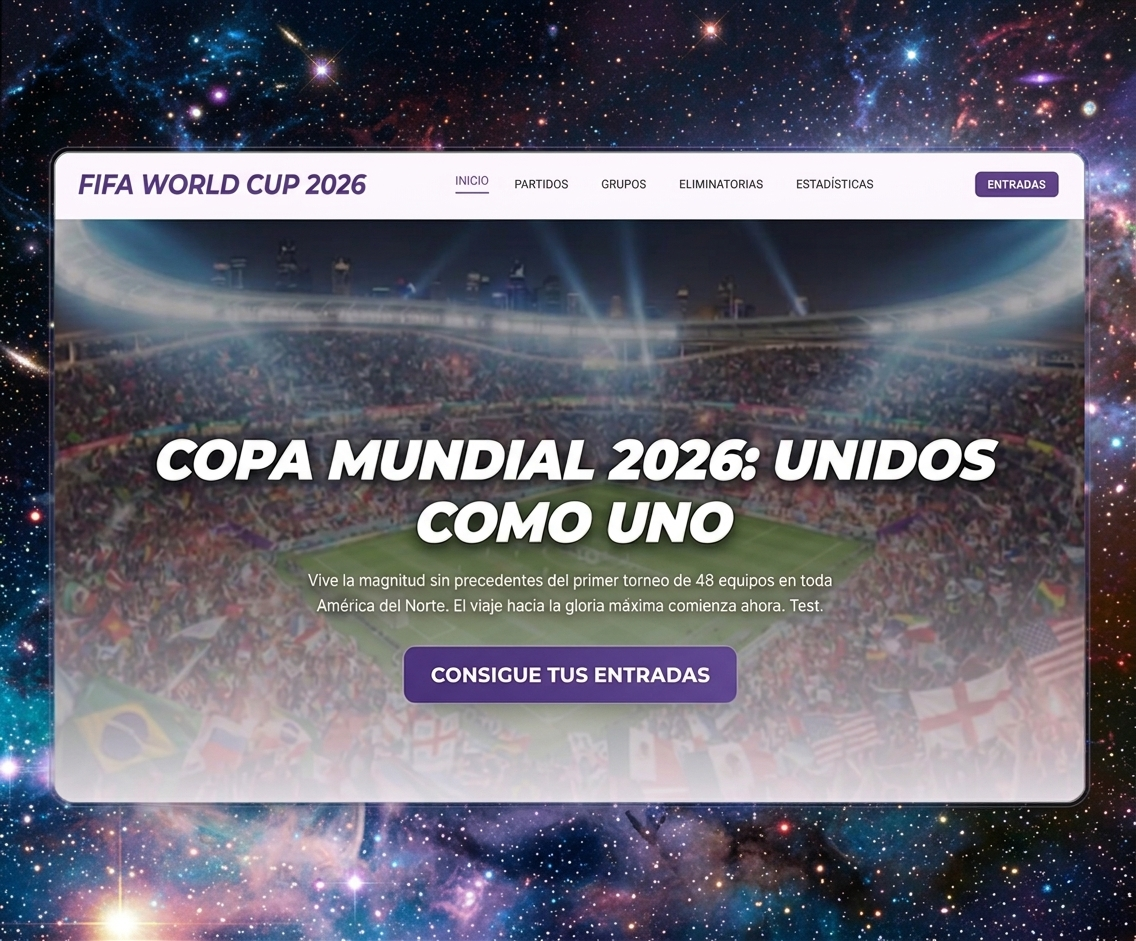
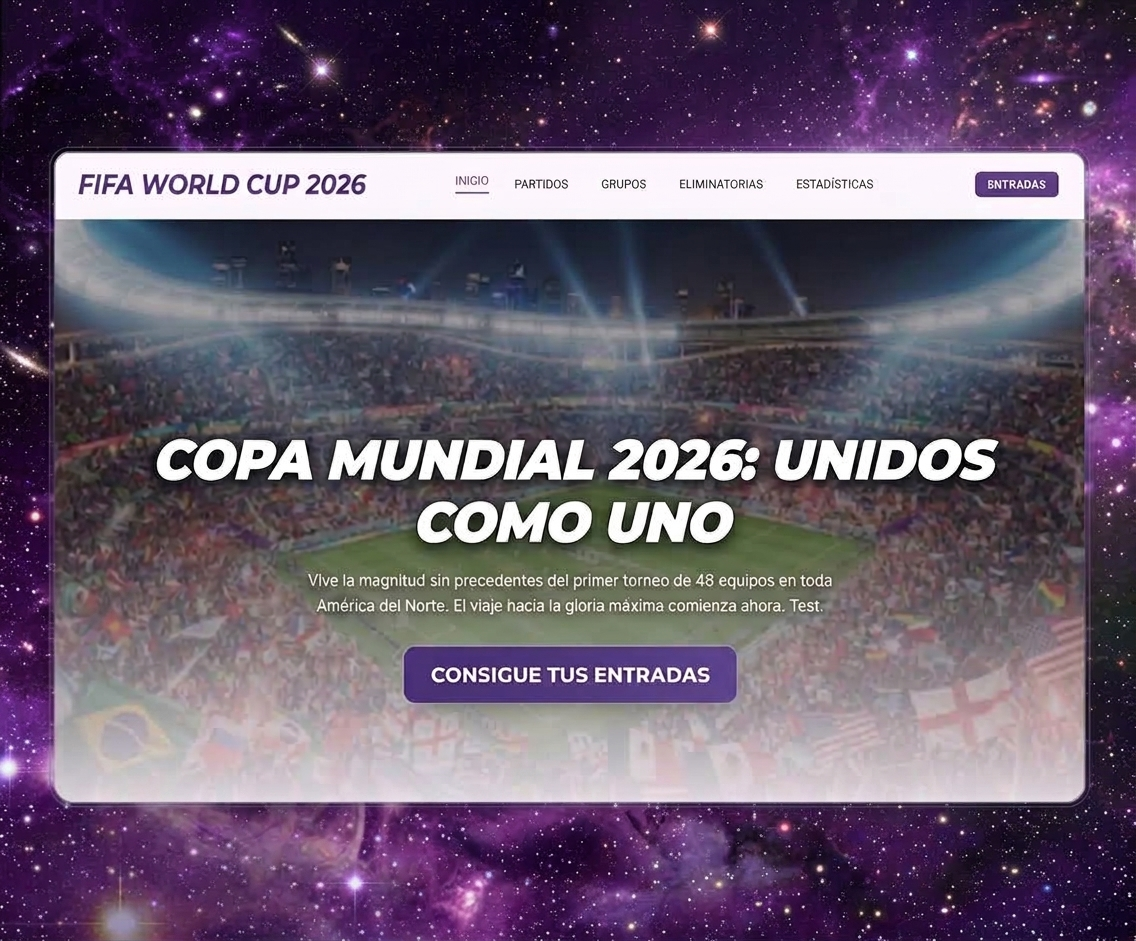
feat: add project image and update UI links for project navigation and code repository access

diff --git a/index.html b/index.html
@@ -51,7 +51,7 @@
                 <h2 class="hero-subtitle">Desarrolladora Full-Stack</h2>
                 <p class="hero-desc">Transformando ideas complejas en interfaces elegantes y funcionales.</p>
             </div>
-            <a class="btn-primary" href="#proyectos">Ver Destacados</a>
+            <a class="btn-primary" href="#proyectos">Ver Proyectos</a>
         </section>
 
         <section class="about-section" id="sobre-mi">
@@ -151,7 +151,8 @@
                             <a class="project-link" href="https://tienda-online-okydoky.vercel.app/" target="_blank"
                                 rel="noopener noreferrer"><span
                                     class="material-symbols-outlined project-link-icon">open_in_new</span> Ver</a>
-                            <a class="project-link dim" href="#"><span
+                            <a class="project-link dim" href="https://github.com/cristinarodriguezl-dev/tiendaOnline"
+                                target="_blank" rel="noopener noreferrer"><span
                                     class="material-symbols-outlined project-link-icon">code</span> Código</a>
                         </div>
                     </div>
